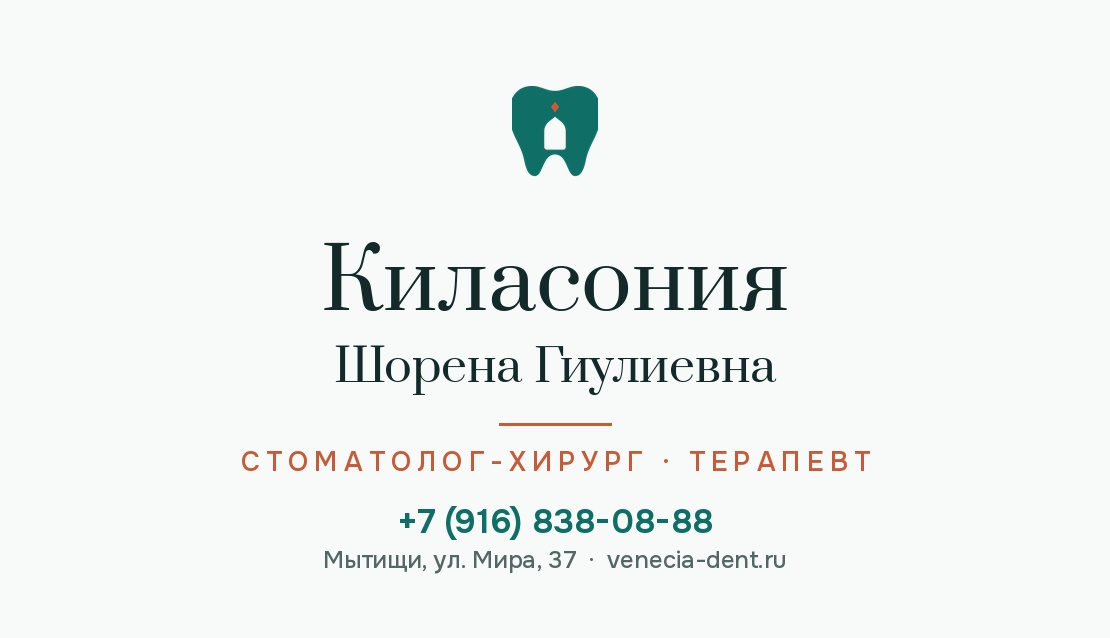
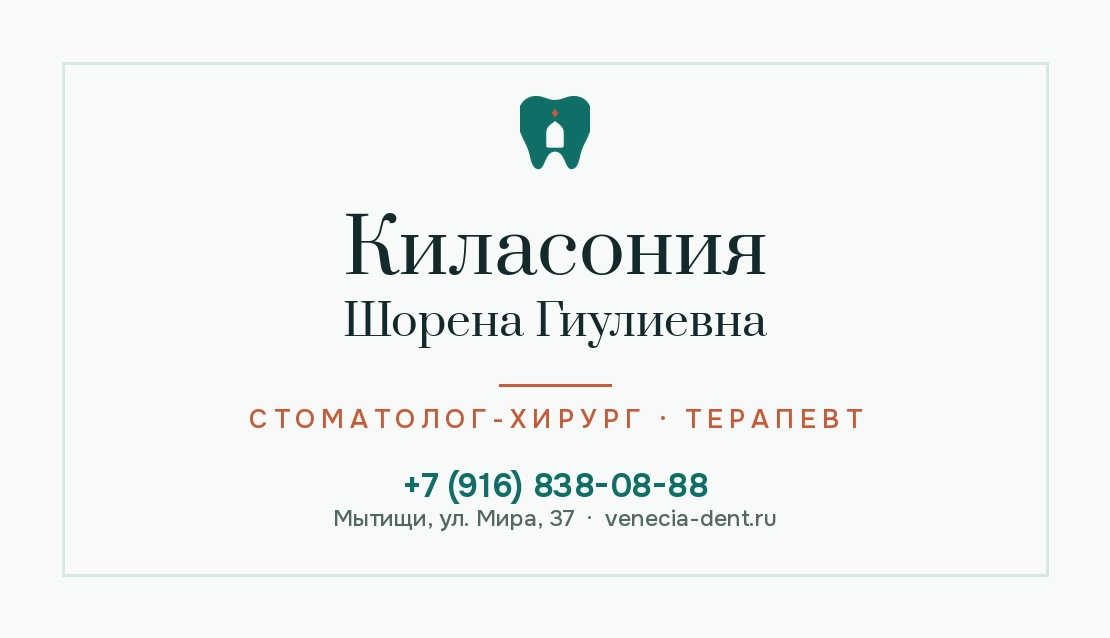
Визитки: возвращена рамка-паспарту, вертикальный ритм по измеренным габаритам текста

Changed region(s): [[0.2144, 0.3276, 0.7658, 0.8339], [0.0613, 0.0893, 0.9495, 0.268], [0.0613, 0.8636, 0.9495, 0.9232]]

diff --git a/_materials/vizitki/build-cards.py b/_materials/vizitki/build-cards.py
@@ -47,29 +47,63 @@ def ctext(d, cx, y, text, font, fill, ls=0):
 def diamond(d, cx, cy, r, fill):
     d.polygon([(cx, cy - r), (cx + r, cy), (cx, cy + r), (cx - r, cy)], fill=fill)
 
-def front(surname, name, role, out):
+def front(surname, name, role, out, frame=True):
     im = Image.new('RGB', (W, H), BG)
     d = ImageDraw.Draw(im)
     cx = W / 2
 
-    # маленький фирменный знак вместо текстовой шапки
+    if frame:
+        fi = BLEED + round(3.2 * MM)
+        d.rectangle([fi, fi, W - fi, H - fi], outline=TINT, width=3)
+
     mark = Image.open(os.path.join(HERE, 'logo-lagoon-mark.png')).convert('RGBA')
-    mh = 96
+    mh = 78
     mw = round(mark.width * mh / mark.height)
     mark = mark.resize((mw, mh), Image.LANCZOS)
-    im.paste(mark, (round(cx - mw / 2), 86), mark)
 
-    # имя врача
-    ctext(d, cx, 226, surname, prata(84), INK)
-    ctext(d, cx, 336, name, prata(46), INK)
+    f_sur, f_nam, f_role = prata(76), prata(44), onest(26, 550)
+    f_ph, f_ad = onest(33, 650), onest(23, 500)
 
-    # разделитель + должность
-    d.line([cx - 56, 424, cx + 56, 424], fill=TERRA, width=3)
-    ctext(d, cx, 444, role.upper(), onest(27, 550), TERRA, ls=6)
+    def th(text, font, ls=0):
+        b = d.textbbox((0, 0), text, font=font)
+        return b[1], b[3] - b[1]  # (смещение до чернил, высота чернил)
 
-    # контакты
-    ctext(d, cx, 500, '+7 (916) 838-08-88', onest(34, 650), LAGOON)
-    ctext(d, cx, 544, 'Мытищи, ул. Мира, 37  ·  venecia-dent.ru', onest(24, 500), MUTED)
+    # элементы и ЧИСТЫЕ визуальные зазоры между чернилами (px)
+    seq = [
+        ('mark', mh),  ('gap', 40),
+        ('sur',  th(surname, f_sur)[1]),   ('gap', 26),
+        ('nam',  th(name, f_nam)[1]),      ('gap', 36),
+        ('line', 3),                        ('gap', 22),
+        ('role', th(role.upper(), f_role)[1]), ('gap', 42),
+        ('ph',   th('+7', f_ph)[1]),       ('gap', 16),
+        ('ad',   th('Мытищи', f_ad)[1]),
+    ]
+    total = sum(hh for _, hh in seq)
+    y = (H - total) / 2 - 6  # оптически чуть выше геометрического центра
+
+    for kind, hh in seq:
+        if kind == 'gap':
+            y += hh; continue
+        if kind == 'mark':
+            im.paste(mark, (round(cx - mw / 2), round(y)), mark)
+        elif kind == 'sur':
+            off, _ = th(surname, f_sur)
+            ctext(d, cx, y - off, surname, f_sur, INK)
+        elif kind == 'nam':
+            off, _ = th(name, f_nam)
+            ctext(d, cx, y - off, name, f_nam, INK)
+        elif kind == 'line':
+            d.line([cx - 56, y + 1, cx + 56, y + 1], fill=TERRA, width=3)
+        elif kind == 'role':
+            off, _ = th(role.upper(), f_role)
+            ctext(d, cx, y - off, role.upper(), f_role, TERRA, ls=6)
+        elif kind == 'ph':
+            off, _ = th('+7 (916) 838-08-88', f_ph)
+            ctext(d, cx, y - off, '+7 (916) 838-08-88', f_ph, LAGOON)
+        elif kind == 'ad':
+            off, _ = th('Мытищи', f_ad)
+            ctext(d, cx, y - off, 'Мытищи, ул. Мира, 37  ·  venecia-dent.ru', f_ad, MUTED)
+        y += hh
 
     im.save(os.path.join(HERE, out), quality=95, dpi=(300, 300))
     print('built', out)
